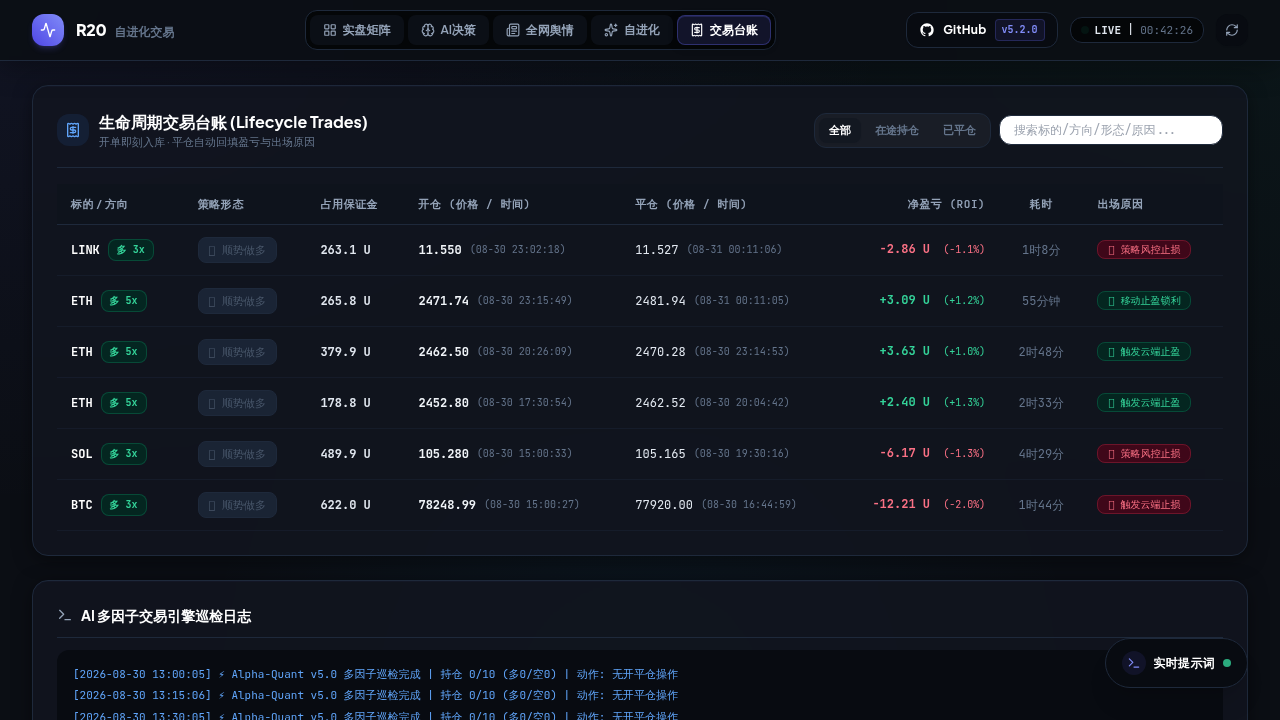
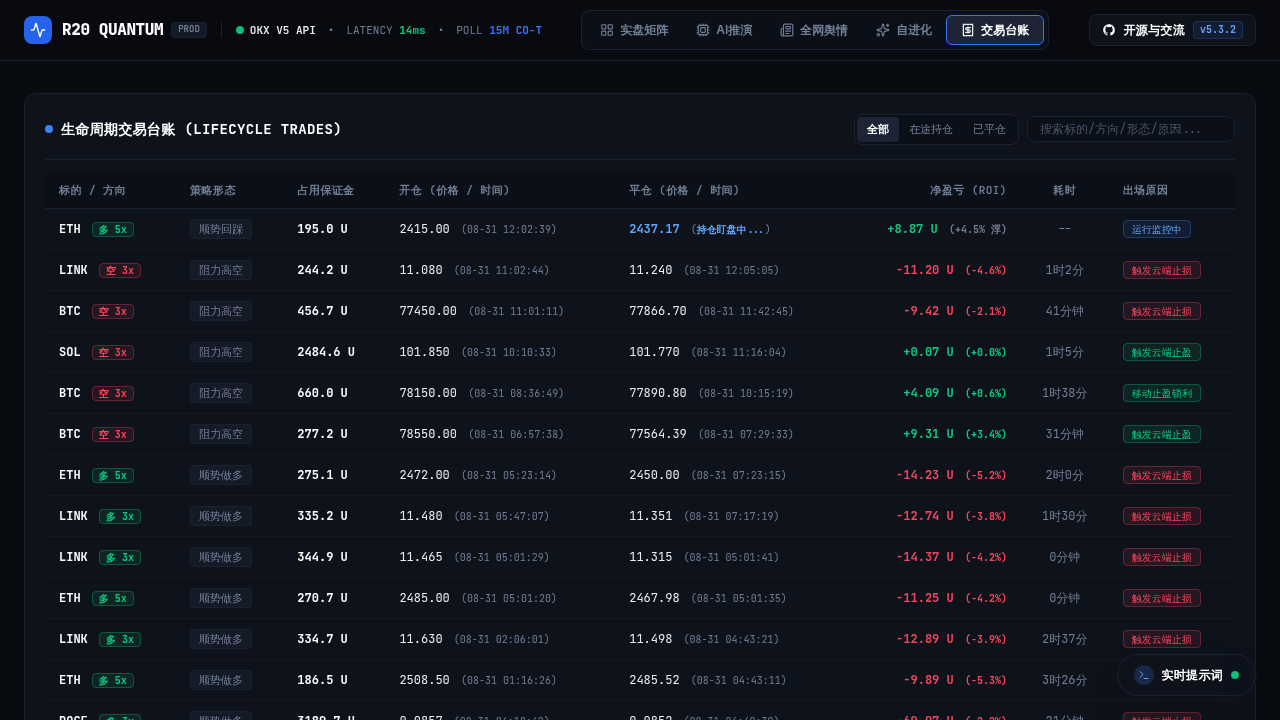
release(v5.3.2): update README screenshots, bump system version to v5.3.2 across terminal and engines

diff --git a/dashboard/templates/index.html b/dashboard/templates/index.html
@@ -225,7 +225,7 @@
                         <path fill-rule="evenodd" clip-rule="evenodd" d="M12 2C6.477 2 2 6.484 2 12.017c0 4.425 2.865 8.18 6.839 9.504.5.092.682-.217.682-.483 0-.237-.008-.868-.013-1.703-2.782.605-3.369-1.343-3.369-1.343-.454-1.158-1.11-1.466-1.11-1.466-.908-.62.069-.608.069-.608 1.003.07 1.53 1.032 1.53 1.032.892 1.53 2.341 1.088 2.91.832.092-.647.35-1.088.636-1.338-2.22-.253-4.555-1.113-4.555-4.951 0-1.093.39-1.988 1.029-2.688-.103-.253-.446-1.272.098-2.65 0 0 .84-.27 2.75 1.026A9.564 9.564 0 0112 6.844c.85.004 1.705.115 2.504.337 1.909-1.296 2.747-1.027 2.747-1.027.546 1.379.202 2.398.1 2.651.64.7 1.028 1.595 1.028 2.688 0 3.848-2.339 4.695-4.566 4.943.359.309.678.92.678 1.855 0 1.338-.012 2.419-.012 2.747 0 .268.18.58.688.482A10.019 10.019 0 0022 12.017C22 6.484 17.522 2 12 2z"/>
                     </svg>
                     <span class="text-xs font-mono font-bold tracking-wide">开源与交流</span>
-                    <span class="px-1.5 py-0.2 rounded text-[10px] font-mono font-bold bg-blue-500/10 text-blue-400 border border-blue-500/20">v5.3.1</span>
+                    <span class="px-1.5 py-0.2 rounded text-[10px] font-mono font-bold bg-blue-500/10 text-blue-400 border border-blue-500/20">v5.3.2</span>
                 </button>
             </div>
         </div>
@@ -727,7 +727,7 @@
                     <div class="w-7 h-7 rounded-lg bg-blue-600 text-white flex items-center justify-center font-bold">
                         <i data-lucide="code" class="w-4 h-4"></i>
                     </div>
-                    <h3 class="text-sm font-bold text-white uppercase">R20 Quantum Trader <span class="text-blue-400">v5.3.1</span></h3>
+                    <h3 class="text-sm font-bold text-white uppercase">R20 Quantum Trader <span class="text-blue-400">v5.3.2</span></h3>
                 </div>
                 <button onclick="closeAboutModal()" class="w-7 h-7 rounded-lg bg-[#141B26] text-[#707E94] hover:text-white flex items-center justify-center border border-[#1A2232]">
                     <i data-lucide="x" class="w-4 h-4"></i>

diff --git a/scripts/ai_factor_trader.py b/scripts/ai_factor_trader.py
@@ -1,6 +1,6 @@
 #!/usr/bin/env python3
 """
-R20 High-Alpha Quantitative Multi-Factor Trading Matrix & Execution Engine (R20 Quantum Trader v5.3.1)
+R20 High-Alpha Quantitative Multi-Factor Trading Matrix & Execution Engine (R20 Quantum Trader v5.3.2)
 Architecture:
 1. Multi-Dimensional Quant Factor Sub-Engine:
    - Trend Momentum: EMA Slope (9/21/55), Multi-Timeframe Alignment (15M, 1H, 4H)
@@ -1010,7 +1010,7 @@ def execute_ai_position_management(real_pos_dict, trackers, timestamp_full, exec
                 executed_actions.append(f"[{name}] 云端止损更新失败，原保护单保持不变")
 
 # =============================================================================
-# 🧠 R20 Quantum Trader v5.3.1 Multi-Factor Scoring & Strategy Setup Classifier
+# 🧠 R20 Quantum Trader v5.3.2 Multi-Factor Scoring & Strategy Setup Classifier
 # =============================================================================
 def evaluate_asset_signal(f):
     """
@@ -1595,7 +1595,7 @@ def execute_portfolio():
     except Exception as e:
         print(f"[Ledger Sync Warning] {e}")
 
-    log_entry = f"[{timestamp_full}] ⚡ R20 Quantum Trader v5.3.1 巡检完成 | 持仓 {active_pos_count}/{MAX_CONCURRENT_POSITIONS} (多{long_count}/空{short_count}) | 动作: {', '.join(executed_actions) if executed_actions else '无开平仓操作'}\n"
+    log_entry = f"[{timestamp_full}] ⚡ R20 Quantum Trader v5.3.2 巡检完成 | 持仓 {active_pos_count}/{MAX_CONCURRENT_POSITIONS} (多{long_count}/空{short_count}) | 动作: {', '.join(executed_actions) if executed_actions else '无开平仓操作'}\n"
     with open(LOG_FILE, "a", encoding="utf-8") as f:
         f.write(log_entry)
     print(log_entry.strip())

diff --git a/scripts/self_improvement_engine.py b/scripts/self_improvement_engine.py
@@ -1,6 +1,6 @@
 #!/usr/bin/env python3
 """
-R20 AI LLM-Native Self-Improvement & Strategy Evolution Engine v5.3.1 (self_improvement_engine.py)
+R20 AI LLM-Native Self-Improvement & Strategy Evolution Engine v5.3.2 (self_improvement_engine.py)
 Focuses purely on Crypto Alpha generation & dynamic quantitative risk adaptation.
 Eliminates rigid cooldown bans in favor of dynamic volatility-adjusted thresholds,
 asymmetric Kelly bet-sizing, and LLM cognitive post-mortem lessons.
@@ -264,7 +264,7 @@ def run_self_evolution(force: bool = False):
     tz_bj = datetime.timezone(datetime.timedelta(hours=8))
     now_bj = datetime.datetime.now(tz_bj)
     timestamp_str = now_bj.strftime("%Y-%m-%d %H:%M:%S")
-    log_msg("🧬 启动 R20 AI 大脑自进化认知复盘与实战心法提炼 (v5.3.1 Crypto Focus)...")
+    log_msg("🧬 启动 R20 AI 大脑自进化认知复盘与实战心法提炼 (v5.3.2 Crypto Focus)...")
 
     closed_trades = load_closed_trades()
     total_trades = len(closed_trades)

diff --git a/README.md b/README.md
@@ -6,7 +6,7 @@
 
 <br/>
 
-[![Version](https://img.shields.io/badge/Version-v5.3.1-6366F1.svg)](https://github.com/555cute/r20-quantum-trader/releases)
+[![Version](https://img.shields.io/badge/Version-v5.3.2-6366F1.svg)](https://github.com/555cute/r20-quantum-trader/releases)
 [![LINUX DO](https://img.shields.io/badge/Community-LINUX%20DO-EA580C.svg)](https://linux.do/)
 [![License](https://img.shields.io/badge/License-MIT-10B981.svg)](https://opensource.org/licenses/MIT)
 [![Python](https://img.shields.io/badge/Python-3.10%2B-blue.svg)](https://www.python.org/)
